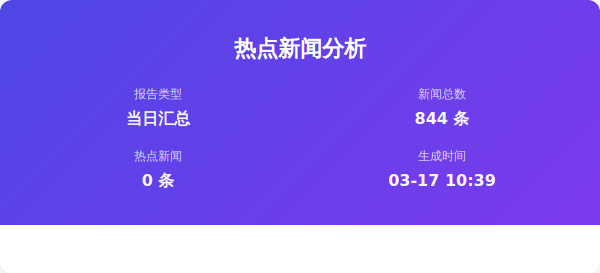
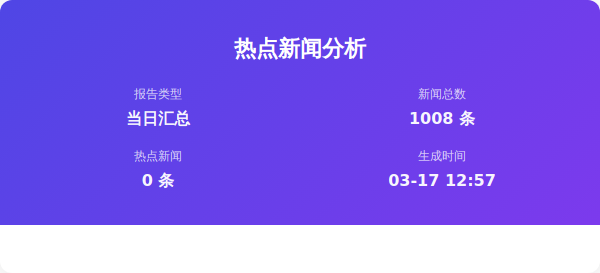
Auto update by GitHub Actions at Tue Mar 17 12:57:54 CST 2026

Changed region(s): [[0.66, 0.4103, 0.81, 0.4689], [0.75, 0.6447, 0.84, 0.674]]

diff --git a/output/2026年03月17日/html/当日汇总.html b/output/2026年03月17日/html/当日汇总.html
@@ -357,7 +357,7 @@
                     </div>
                     <div class="info-item">
                         <span class="info-label">新闻总数</span>
-                        <span class="info-value">844 条</span>
+                        <span class="info-value">1008 条</span>
                     </div>
                     <div class="info-item">
                         <span class="info-label">热点新闻</span>
@@ -365,7 +365,7 @@
                     </div>
                     <div class="info-item">
                         <span class="info-label">生成时间</span>
-                        <span class="info-value">03-17 10:39</span>
+                        <span class="info-value">03-17 12:57</span>
                     </div>
                 </div>
             </div>